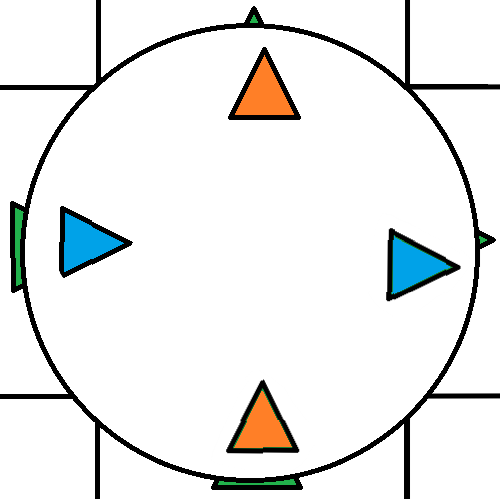
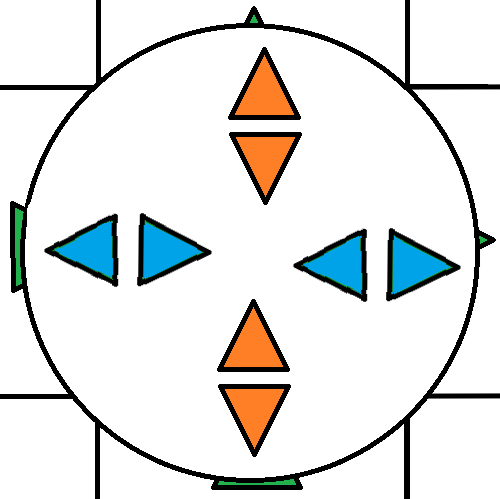
Intersections are now bidirectional

diff --git a/main.cpp b/main.cpp
@@ -63,7 +63,7 @@ int main () {
                 nodeList.push_back(node);
         }
 
-        if (IsKeyPressed(KEY_DELETE)) {
+        if (IsMouseButtonPressed(MOUSE_BUTTON_RIGHT)) {
             Vector2 mousePos = GetMousePosition();
 
             int row = (int)((mousePos.y - offset) / cellSize);
@@ -83,7 +83,7 @@ int main () {
     
 
         if (IsKeyPressed(KEY_ONE)){
-            newNode = new SourceNode(1, 1, 1, DOWN, UP, 0, 1, 1, 1);
+            newNode = new SourceNode(1, 1, 1, NULL, UP, 0, 1, 1, 1);
             selected = 1;
         }else if (IsKeyPressed(KEY_TWO)){
             newNode = new LogisticNode(2, 1, 1, DOWN, UP, 1, 1, 1, 1);
@@ -95,10 +95,10 @@ int main () {
             newNode = new DuplicatorNode(4, 1, 1, DOWN, (UP | LEFT | RIGHT), 1, 3, 1, 1, &grid);
             selected = 4;
         }else if (IsKeyPressed(KEY_FIVE)){
-            newNode = new IntersectionNode(5, 2, 1, (LEFT | DOWN), (UP | RIGHT), 2, 2, 1, 1, &grid);
+            newNode = new IntersectionNode(5, 2, 1, (LEFT | DOWN | UP | RIGHT), (LEFT | DOWN | UP | RIGHT), 4, 4, 1, 1, &grid);
             selected = 5;
         }else if (IsKeyPressed(KEY_SIX)){
-            newNode = new OutputNode (6, 1, 1, DOWN, UP, 1, 0, 1, 1, &generatedText, &reader);
+            newNode = new OutputNode (6, 1, 1, DOWN, NULL, 1, 0, 1, 1, &generatedText, &reader);
             selected = 6;
         }
         
@@ -138,14 +138,13 @@ int main () {
             DrawText(label.c_str(), (SCREEN_WIDTH - ((int) MeasureText(label.c_str(), labelsize)))/2, (offset - labelsize)/2 - (labelsize*1.5), labelsize, BLACK);
             int fontsize = 30; 
             DrawText((generatedText).c_str(), (SCREEN_WIDTH - ((int) MeasureText(generatedText.c_str(), fontsize)))/2, (offset - fontsize)/2, fontsize, BLACK);
-            label = "Press DEL to remove a component";
+            label = "Press RIGHT MOUSE BUTTON to remove a component";
             DrawText(label.c_str(), (SCREEN_WIDTH - ((int) MeasureText(label.c_str(), labelsize)))/2, (offset - labelsize)/2 + (labelsize*1.7), labelsize, BLACK);
             label = "Press TAB to rotate a component";
             DrawText(label.c_str(), (SCREEN_WIDTH - ((int) MeasureText(label.c_str(), labelsize)))/2, (offset - labelsize)/2 + (labelsize*2.9), labelsize, BLACK);
 
             labelsize = 18;
             DrawText(tooltips[selected - 1].c_str(), (SCREEN_WIDTH - ((int) MeasureText(tooltips[selected - 1].c_str(), labelsize)))/2, (SCREEN_HEIGHT - offset) + labelsize*2, labelsize, BLACK);
-
             
         EndDrawing();
     }

diff --git a/Grid.cpp b/Grid.cpp
@@ -1,5 +1,7 @@
 #include "Grid.h"
 #include <iostream>
+#include <ranges>
+#include <algorithm>
 Texture2D sourceTexture;
 Texture2D logisticsTexture;
 Texture2D cornerLogTexture;
@@ -71,7 +73,7 @@ void Grid::drawNode(Node* node, int row, int col, int cellSize, int offset, int 
     int rotation = 0; 
     Texture2D* texture = nullptr;
 
-    if (node->getType() == CORNERLOG || node->getType() == CORNERLOGL) {
+    if (node->getType() == CORNERLOG || node->getType() == CORNERLOGL || node->getType() == DUPLICATOR || node->getType() == RECEIVER) {
             int in  = node->getInputDirection();
             int out = node->getOutputDirection();
 
@@ -140,6 +142,7 @@ void Grid::drawGrid(Node* tempNode) {
         
                 if (grid[i][j]->getDataBuffer().size() > 0) {
                     std::string buffer = "";
+                    
                     for (IncomingData& data : grid[i][j]->getDataBuffer()) {
                         buffer += data.getData();
                     }
@@ -161,7 +164,7 @@ void Grid::drawGrid(Node* tempNode) {
                     buffer += data.getData();
                 }
 
-                buffer = (buffer == " ") ? "" "" : buffer;
+                buffer = (buffer == " ") ? "_" : buffer;
                 DrawText(buffer.c_str(), 
                             (int)(j * cellSize + offset), 
                             (int)(i * cellSize + offset), 